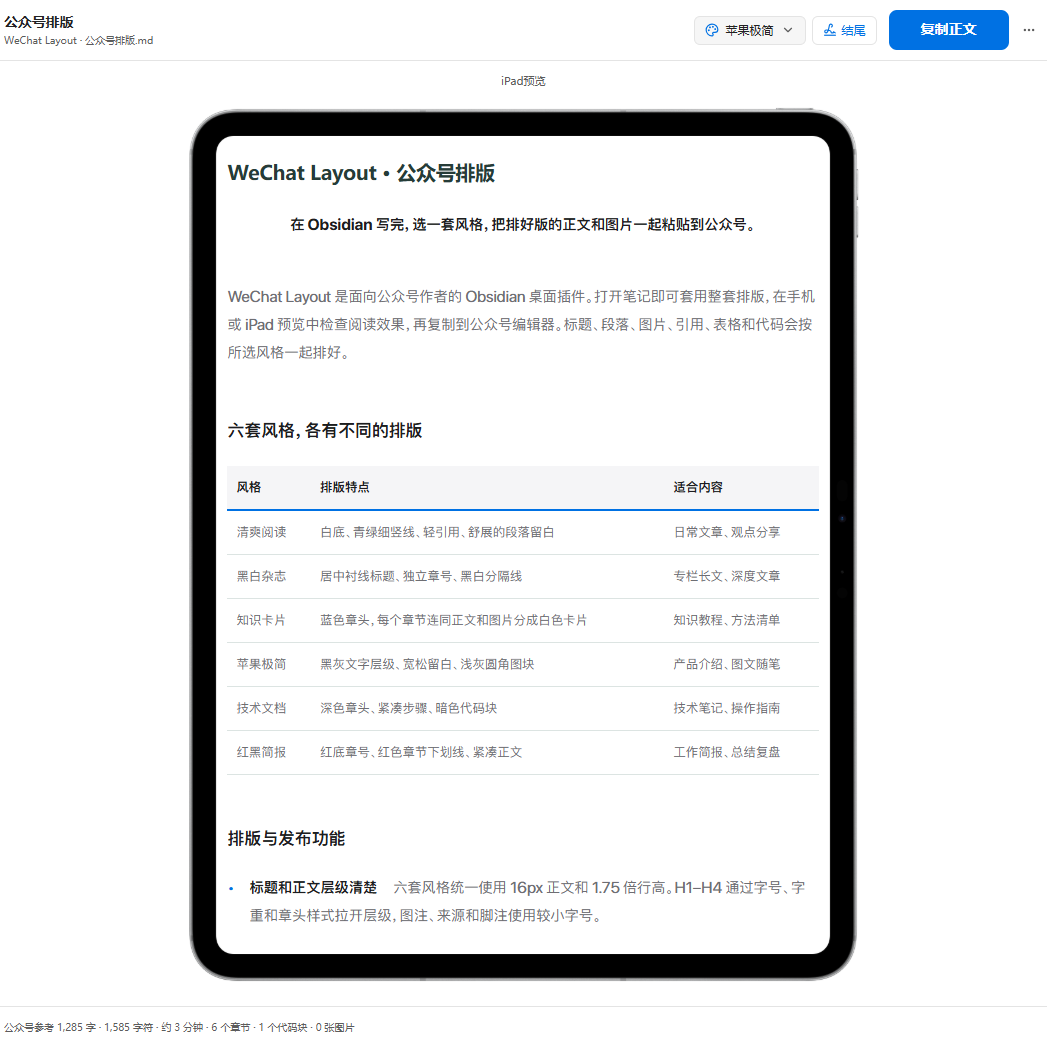
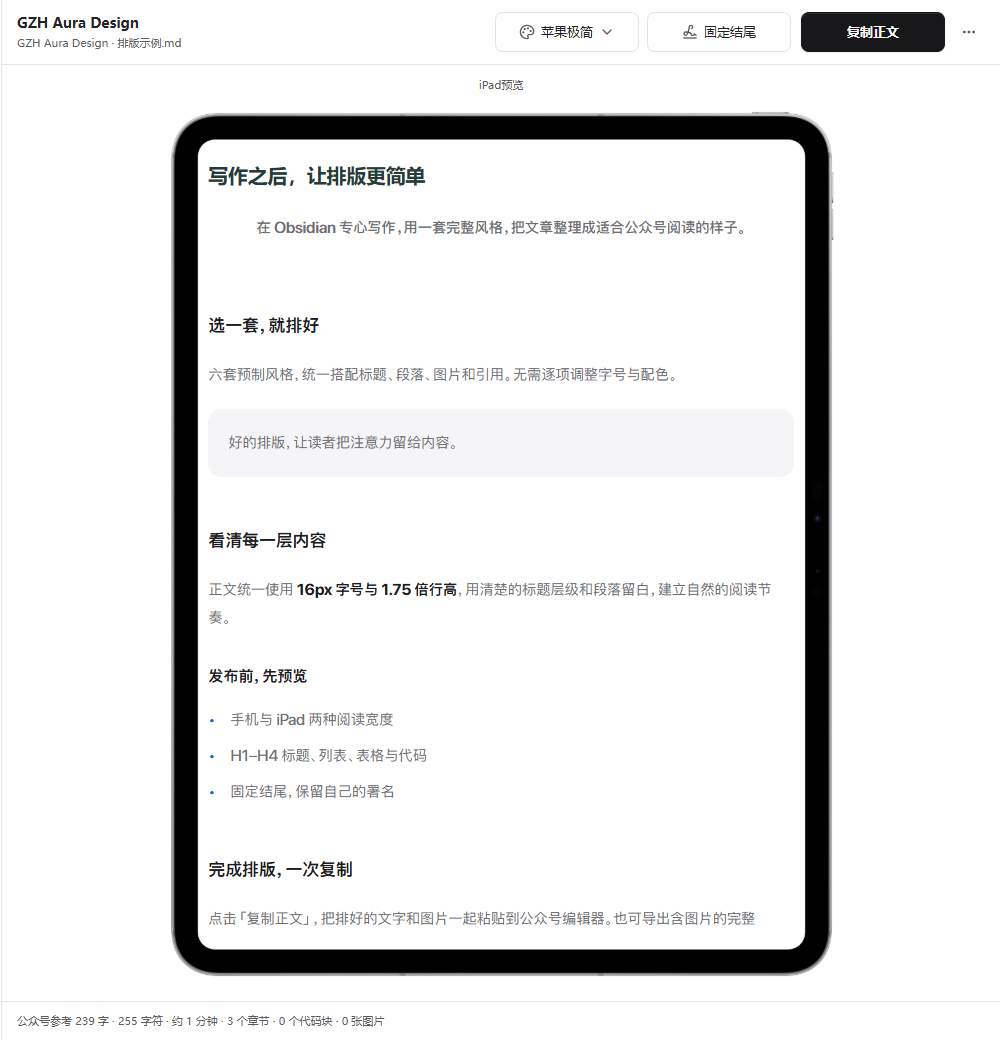
Refresh README screenshots and product introduction for latest UI

diff --git a/README.zh-CN.md b/README.zh-CN.md
@@ -4,7 +4,9 @@
 
 **在 Obsidian 写完，选一套风格，把排好版的正文和图片一起粘贴到公众号。**
 
-GZH Aura Design 是面向公众号作者的 Obsidian 桌面插件。打开笔记即可套用整套排版，在手机或 iPad 预览中检查阅读效果，再复制到公众号编辑器。标题、段落、图片、引用、表格和代码会按所选风格一起排好。
+GZH Aura Design 是面向公众号作者的 Obsidian 桌面排版插件。把笔记交给一套完整的预制风格，标题、段落、图片、引用、列表、表格和代码会一起排好。无需逐项配置字号、配色和间距。
+
+从六张风格卡片中选择排版，在手机或 iPad 设备预览中检查阅读效果，再点「复制正文」，将文字和图片一起粘贴到公众号编辑器。常用风格和固定结尾可重复使用，也能导出含图片的完整 HTML。
 
 ## 六套风格，各有不同的排版
 
@@ -17,9 +19,13 @@ GZH Aura Design 是面向公众号作者的 Obsidian 桌面插件。打开笔记
 | 技术文档 | 深色章头、紧凑步骤、暗色代码块 | 技术笔记、操作指南 |
 | 红黑简报 | 红底章号、红色章节下划线、紧凑正文 | 工作简报、总结复盘 |
 
-<img src="docs/images/preset-picker.png" width="440" alt="六套成品风格使用同一段示例内容，每套有独立的标题和引用样式">
+六套风格以卡片展示，名称、排版预览和一行视觉特征分区排列。各用不同的示例标题，直接比较章头、正文和引用；六张卡片完整呈现，无需滚动选择。
+
+<img src="docs/images/preset-picker.png" width="520" alt="新版卡片式风格选择面板，完整展示六套风格的标题、正文和引用">
 
 ## 排版与发布功能
+
+- **简洁的操作界面**　风格、固定结尾、复制正文三个按钮统一尺寸；黑白控件、细边框与清晰的选中状态，让预览成为页面主体。更多菜单集中提供文章操作、常用风格、设备切换与版本信息。
 
 - **标题和正文层级清楚**　六套风格统一使用 16px 正文和 1.75 倍行高。H1–H4 通过字号、字重和章头样式拉开层级，图注、来源和脚注使用较小字号。
 - **一次复制完整图文**　支持 Obsidian 库内附件、Markdown 图片和网络图片。可用图片直接嵌入富文本，保留原来的位置。遇到缺失或读取失败的图片，会先提示具体文件。
@@ -31,11 +37,11 @@ GZH Aura Design 是面向公众号作者的 Obsidian 桌面插件。打开笔记
 
 **手机 · 知识卡片**
 
-<img src="docs/images/phone-preview.png" width="760" alt="手机预览中的知识卡片风格，显示蓝色章头和表格">
+<img src="docs/images/phone-preview.png" width="760" alt="新版手机预览与工具栏，知识卡片使用蓝色章头、白色分组卡片和浅底引用">
 
 **iPad · 苹果极简**
 
-<img src="docs/images/ipad-preview.png" width="760" alt="iPad 预览中的苹果极简风格，显示黑灰标题和宽版表格">
+<img src="docs/images/ipad-preview.png" width="760" alt="新版 iPad 预览与工具栏，苹果极简使用黑灰标题、宽松留白和浅灰引用块">
 
 
 ## 安装

diff --git a/README.md b/README.md
@@ -4,7 +4,9 @@
 
 **Format an Obsidian note for WeChat Official Accounts and paste the styled text with its images.**
 
-Choose one of six ready-made layouts. Each preset styles headings, paragraphs, images, quotes, lists, tables, and code as a whole. Preview the article on a phone or iPad, then copy the body into the WeChat editor.
+GZH Aura Design is a desktop Obsidian plugin for publishing to WeChat Official Accounts. Choose one of six complete presets to style headings, paragraphs, images, quotes, lists, tables, and code together. There is no need to configure fonts, colors, or spacing one by one.
+
+Compare layout cards, check the result in a phone or iPad device preview, then click Copy body to paste the styled text and images into WeChat. Reuse your favorite layout and Markdown ending, or export a complete HTML file with embedded images.
 
 ## Six layouts for different articles
 
@@ -17,9 +19,13 @@ Choose one of six ready-made layouts. Each preset styles headings, paragraphs, i
 | 技术文档 · Technical Docs | Dark chapter headers, compact steps, and dark code blocks | How-to guides and engineering notes |
 | 红黑简报 · Red and Black Brief | Red chapter numbers and rules with a compact text layout | Briefings and summaries |
 
-<img src="docs/images/preset-picker.png" width="440" alt="GZH Aura Design preset picker showing the same sample in six layouts">
+Each card separates the preset name, layout preview, and one line of visual features. Distinct sample headings make it easier to compare chapter headers, body text, and quotes. All six cards are visible together without scrolling.
+
+<img src="docs/images/preset-picker.png" width="520" alt="Updated card-based picker showing all six presets with distinct headings, body text, and quotes">
 
 ## Typesetting and publishing features
+
+- **A compact interface.** Equally sized layout, ending, and copy buttons sit in a neutral toolbar with fine borders and clear selection states. The More menu groups article actions, favorite layouts, device previews, and version information.
 
 - **A clear reading hierarchy.** All six presets use 16px body text with 1.75 line spacing. H1–H4 have distinct sizes and styles. Captions, source notes, and footnotes use smaller type.
 - **Copy text and images together.** Supported Obsidian attachments, Markdown images, and remote images are embedded in the copied HTML. If an image is unavailable, you get a message identifying it before the clipboard is written.
@@ -31,11 +37,11 @@ Choose one of six ready-made layouts. Each preset styles headings, paragraphs, i
 
 **Phone · Knowledge Cards**
 
-<img src="docs/images/phone-preview.png" width="760" alt="The Knowledge Cards layout in the phone preview">
+<img src="docs/images/phone-preview.png" width="760" alt="Updated toolbar and phone preview with blue chapter headers and white content cards">
 
 **iPad · Apple Minimal**
 
-<img src="docs/images/ipad-preview.png" width="760" alt="The Apple Minimal layout in the iPad preview">
+<img src="docs/images/ipad-preview.png" width="760" alt="Updated toolbar and iPad preview with black and gray headings, generous spacing, and soft quote blocks">
 
 
 ## Install
